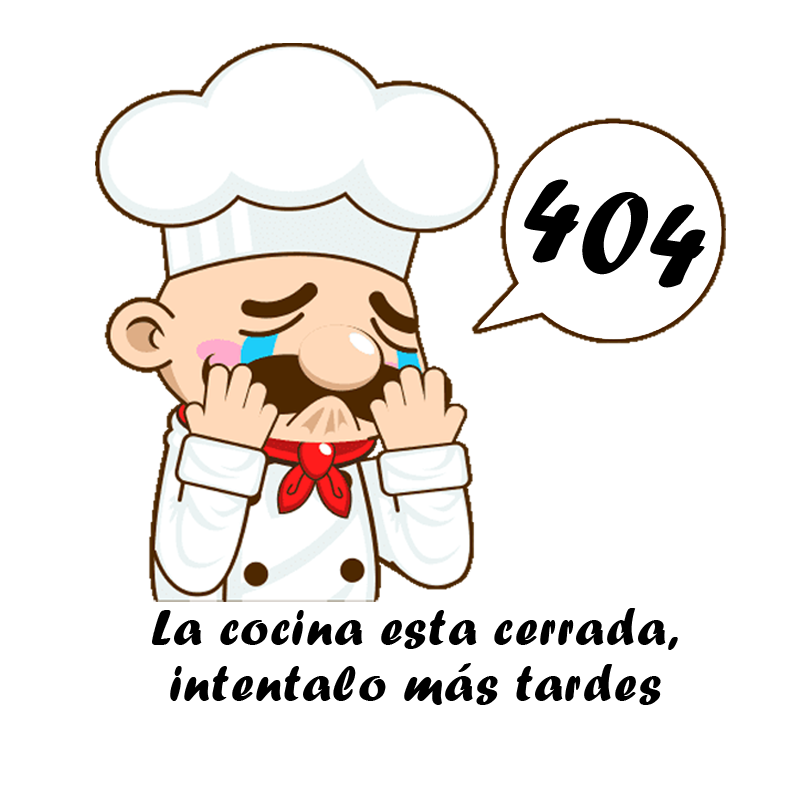
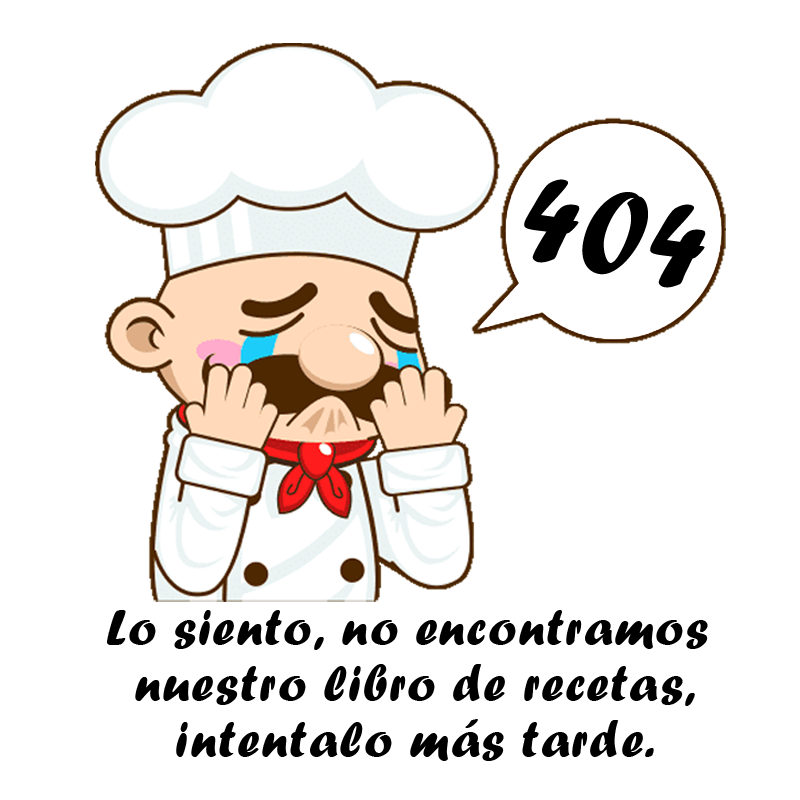
Se agregan las rutas correspondientes al proyecto

Changed region(s): [[0.125, 0.75, 0.9062, 0.9688]]

diff --git a/src/App.jsx b/src/App.jsx
@@ -1,19 +1,35 @@
 import "bootstrap/dist/css/bootstrap.min.css";
 import "./App.css";
-import Footer from "./components/Common/Footer";
 import Menu from "./components/Common/Menu";
-import Inicio from "./components/Pages/Inicio";
-import { BrowserRouter, Route, Router } from "react-router-dom";
+import Footer from "./components/Common/Footer";
+import { BrowserRouter, Route, Routes } from "react-router-dom";
 import { Container } from "react-bootstrap";
+import Inicio from "./components/Pages/Inicio";
+import Error404 from "./components/Pages/Error404";
 
 function App() {
   return (
-    <><Menu></Menu>
-      <Container className="mainpage">
-      
-    <h1>hola</h1>
-    </Container>
-    <Footer></Footer>
+    <>
+    
+      <BrowserRouter>
+        <Menu></Menu>
+        <Container className="mainpage">
+          <Routes>
+            <Route>
+              <Route exact path="/" element={<Inicio></Inicio>}></Route>
+              <Route
+                exact
+                path="/inicio"
+                element={<Inicio></Inicio>}
+              ></Route>
+              <Route exact path="/error" element={<Error404></Error404>}></Route>
+              <Route path="*" element={<Error404></Error404>}></Route>
+            </Route>
+          </Routes>
+        </Container>
+
+        <Footer></Footer>
+      </BrowserRouter>
     </>
   );
 }

diff --git a/src/components/Common/Menu.jsx b/src/components/Common/Menu.jsx
@@ -1,18 +1,27 @@
 import { Nav, Container, Navbar } from "react-bootstrap";
 
+import { Link, NavLink } from "react-router-dom";
 
 const Menu = () => {
     return (
         <Navbar expand="lg" className="bg-body-tertiary">
         <Container>
-          
+        
           <Navbar.Toggle aria-controls="basic-navbar-nav" />
           <Navbar.Collapse id="basic-navbar-nav">
             <Nav className="ms-auto">
-              <Nav.Link href="#home">Inicio</Nav.Link>
-              <Nav.Link href="#link">Administrador</Nav.Link>
-              <Nav.Link href="#link">Login</Nav.Link>
-              <Nav.Link href="#link">Registro</Nav.Link>
+            <NavLink end className="nav-link" to="/">
+              Inicio
+            </NavLink>
+            <NavLink end className="nav-link" to="/administrador">
+              Administrador
+            </NavLink>
+            <NavLink end className="nav-link" to="/login">
+              Login
+            </NavLink>
+            <NavLink end className="nav-link" to="/registro">
+              Registro
+            </NavLink>
             </Nav>
           </Navbar.Collapse>
         </Container>

diff --git a/src/components/Common/Footer.jsx b/src/components/Common/Footer.jsx
@@ -1,6 +1,6 @@
 const Footer = () => {
     return (
-        <footer className="text-center bg-white text-black py-4">
+        <footer className="text-center bg-black text-light py-4">
 <p>&copy; Todos los derechos reservados</p>            
         </footer>
     );

diff --git a/src/components/Pages/Error404.jsx b/src/components/Pages/Error404.jsx
@@ -1,0 +1,11 @@
+import React from 'react';
+
+const Error404 = () => {
+  return (
+    <div>
+      <p>hola</p>
+    </div>
+  );
+};
+
+export default Error404;

diff --git a/src/components/Pages/Inicio.jsx b/src/components/Pages/Inicio.jsx
@@ -1,4 +1,7 @@
+
+
 const Inicio = () => {
+    
     return (
         <div>
             <p>Hola</p>
